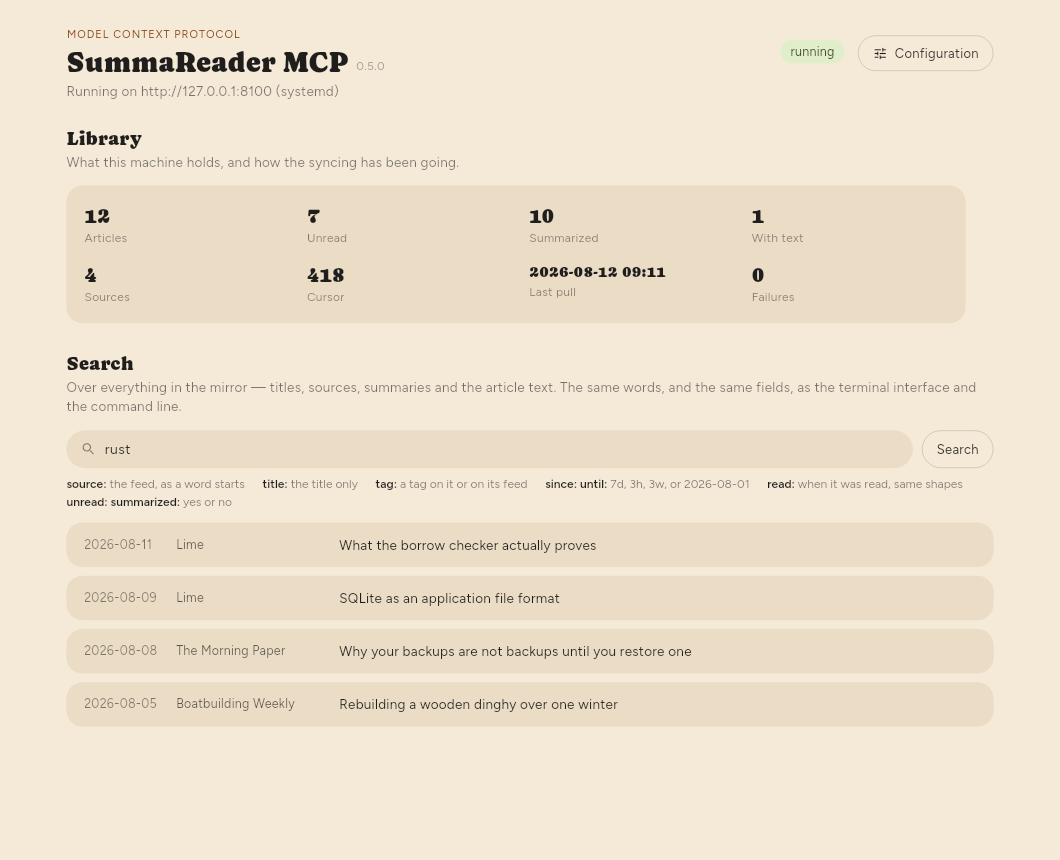
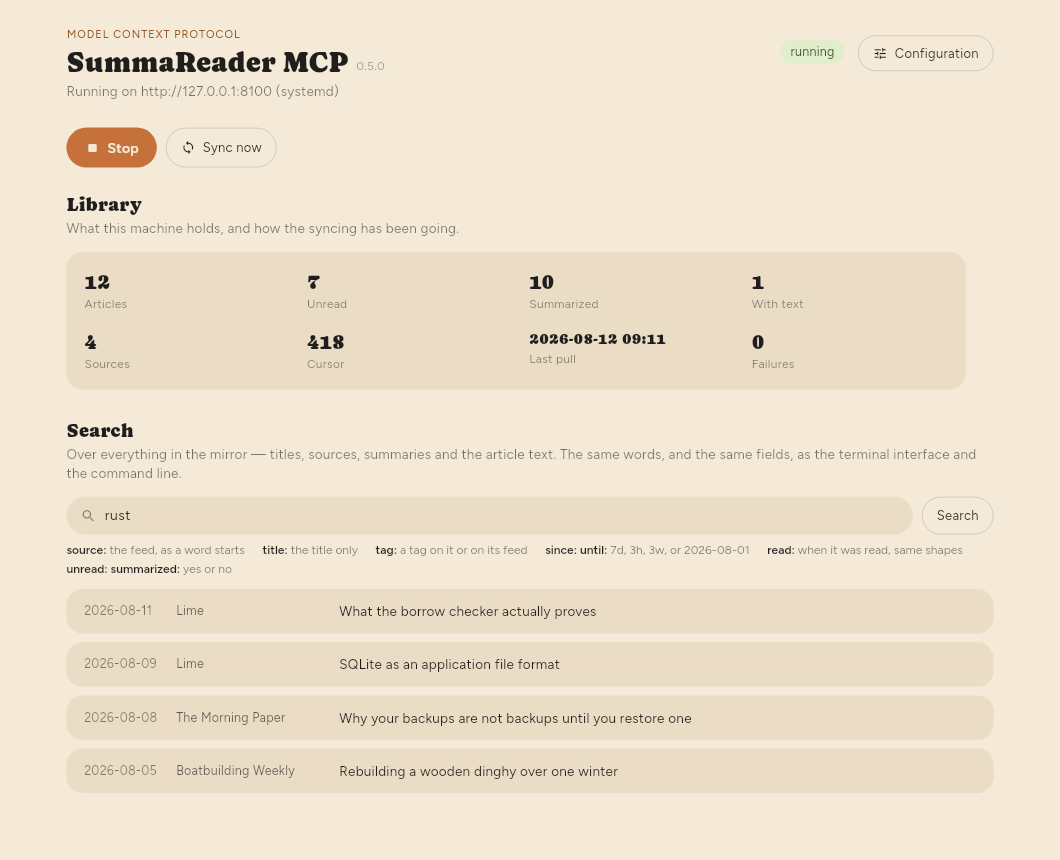
Put Start and Sync now where the window opens
They were behind Configuration, which is where somebody goes when
something is wrong. These two are what the window is opened to do, and a
control needed every day should not be a press further away than the
settings needed twice a year.

Above the library rather than below: what those numbers say depends on
whether the server is running, so the control that decides it comes
first.

Still drawn where they cannot be pressed. A console reading somebody
else's mirror has nothing to start and a sentence above saying so — a
dead button beside that sentence is what the sentence is about, and no
button at all would leave it answering a question nobody could ask.

Claude-Session: https://claude.ai/code/session_01YMCr4Ddr4nsdM8htNKYxAh

diff --git a/console/lib/src/console.dart b/console/lib/src/console.dart
@@ -254,6 +254,12 @@ class _ConsoleViewState extends State<ConsoleView> {
               _note(note),
             ],
             const SizedBox(height: Ar.space6),
+            // Drawn even where they cannot be pressed. A console reading
+            // somebody else's mirror has nothing to start, and the refusal
+            // above says so in a sentence — a dead button beside that
+            // sentence is what the sentence is about, where no button at all
+            // would leave it answering a question nobody could ask.
+            _controls(),
             _library(),
             _search(context),
           ],
@@ -459,6 +465,52 @@ class _ConsoleViewState extends State<ConsoleView> {
     ]),
   );
 
+  /// Start, Stop and Sync now — on the page the window opens on.
+  ///
+  /// They were behind Configuration, which is a page somebody goes to when
+  /// something is wrong. These two are what the window is opened *to do*, and
+  /// a control you need every day should not be one press further away than
+  /// the settings you need twice a year.
+  ///
+  /// Above the library rather than below it: what the numbers say depends on
+  /// whether the server is running, so the control that decides that comes
+  /// first.
+  Widget _controls() => Padding(
+    padding: const EdgeInsets.only(bottom: Ar.space6),
+    child: Wrap(
+      spacing: Ar.space2,
+      runSpacing: Ar.space2,
+      crossAxisAlignment: WrapCrossAlignment.center,
+      children: [
+        // One button rather than two: with a Start and a Stop side by side
+        // one of them is always dead, for no reason a reader can see. The
+        // label says what pressing it will do — including when a unit owns
+        // the server and it is systemctl doing it.
+        PrimaryButton(
+          label: widget.state.running ? 'Stop' : 'Start',
+          icon: widget.state.running
+              ? Icons.stop_rounded
+              : Icons.play_arrow_rounded,
+          onTap: widget.state.local && !widget.state.busy
+              ? widget.onToggle
+              : null,
+        ),
+        // "Sync now", not "Pull now", though pulling is all it does. The
+        // app's button says Sync now and this is the same errand from the
+        // other end; two words for one action is a difference somebody has
+        // to learn for nothing.
+        PillButton(
+          label: 'Sync now',
+          icon: Icons.sync_rounded,
+          height: 40,
+          onTap: widget.state.local && !widget.state.busy
+              ? widget.onPull
+              : null,
+        ),
+      ],
+    ),
+  );
+
   Widget _server() => _section(
     'The server',
     widget.state.local
@@ -470,38 +522,6 @@ class _ConsoleViewState extends State<ConsoleView> {
               'reading one opens it read-only and never pulls, so there is '
               'nothing here to start or to schedule.',
     _card([
-      Wrap(
-        spacing: Ar.space2,
-        runSpacing: Ar.space2,
-        crossAxisAlignment: WrapCrossAlignment.center,
-        children: [
-          // One button rather than two: with a Start and a Stop side by side
-          // one of them is always dead, for no reason a reader can see. The
-          // label says what pressing it will do — including when a unit owns
-          // the server and it is systemctl doing it.
-          PrimaryButton(
-            label: widget.state.running ? 'Stop' : 'Start',
-            icon: widget.state.running
-                ? Icons.stop_rounded
-                : Icons.play_arrow_rounded,
-            onTap: widget.state.local && !widget.state.busy
-                ? widget.onToggle
-                : null,
-          ),
-          // "Sync now", not "Pull now", though pulling is all it does. The
-          // app's button says Sync now and this is the same errand from the
-          // other end; two words for one action is a difference somebody has
-          // to learn for nothing.
-          PillButton(
-            label: 'Sync now',
-            icon: Icons.sync_rounded,
-            height: 40,
-            onTap: widget.state.local && !widget.state.busy
-                ? widget.onPull
-                : null,
-          ),
-        ],
-      ),
       if (widget.onSyncing != null)
         _row(
           'Sync automatically',

diff --git a/console/test/console_test.dart b/console/test/console_test.dart
@@ -221,10 +221,12 @@ void main() {
     }
     expect(find.text('This program'), findsNothing);
 
-    // The server's page: what it runs and where it listens.
-    expect(find.text('Start'), findsOneWidget);
-    expect(find.text('Sync now'), findsOneWidget);
+    // The server's page: where it listens. Start and Sync now are not here —
+    // they are what the window is opened to do, so they live on the page it
+    // opens on and this asserts the absence as well as the presence.
     expect(find.text('Address'), findsOneWidget);
+    expect(find.text('Start'), findsNothing, reason: 'on the main page now');
+    expect(find.text('Sync now'), findsNothing, reason: 'on the main page now');
 
     await goToPage(tester, 'Library');
     expect(find.text('Where the data lives'), findsOneWidget);
@@ -255,10 +257,11 @@ void main() {
     // is about: a mirror that will not pull is the answer to "why has nothing
     // arrived", which is asked of the library, not of the settings.
     expect(find.textContaining('Start, Stop and Pull'), findsOneWidget);
-    await openSettings(tester);
 
-    // Not merely dim: pressing it has to do nothing. A disabled-looking button
-    // that still starts a server is the worse half of this bug.
+    // On the first screen, beside the sentence that explains it — the buttons
+    // moved there and the refusal was always here. Not merely dim: pressing it
+    // has to do nothing. A disabled-looking button that still starts a server
+    // is the worse half of this bug.
     await tester.tap(find.text('Start'));
     await tester.pump();
     expect(started, isFalse);
